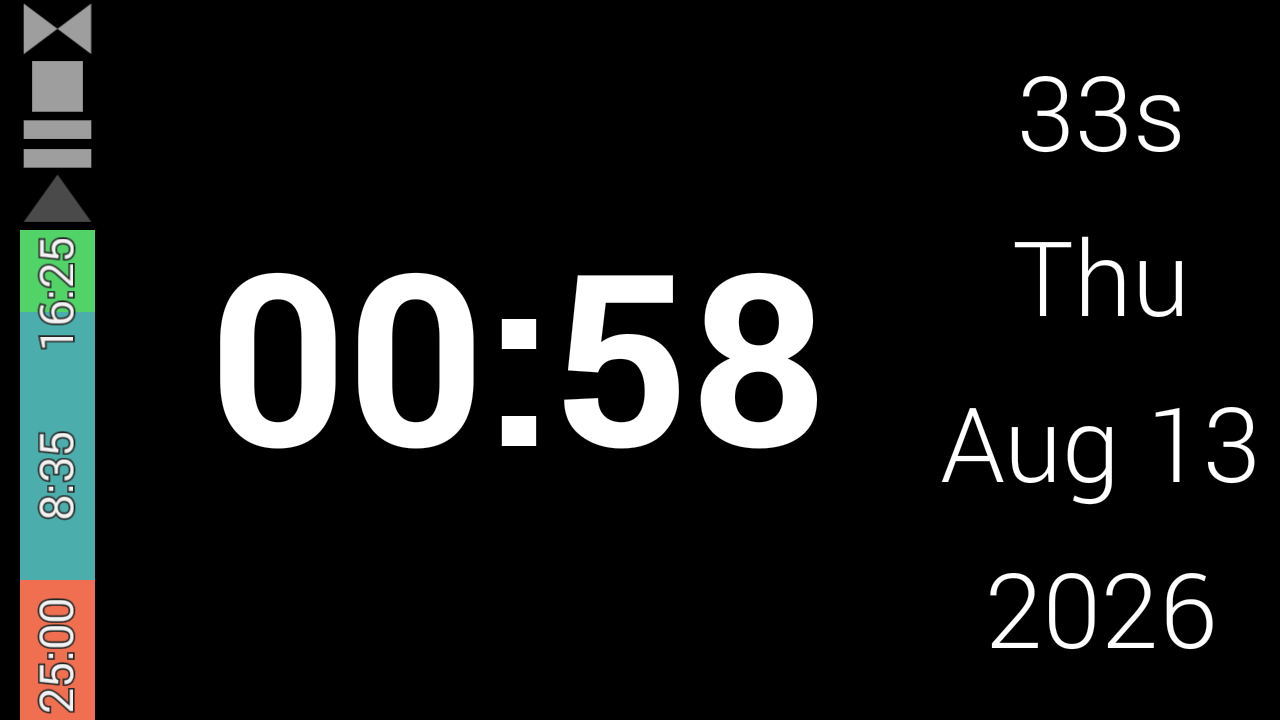
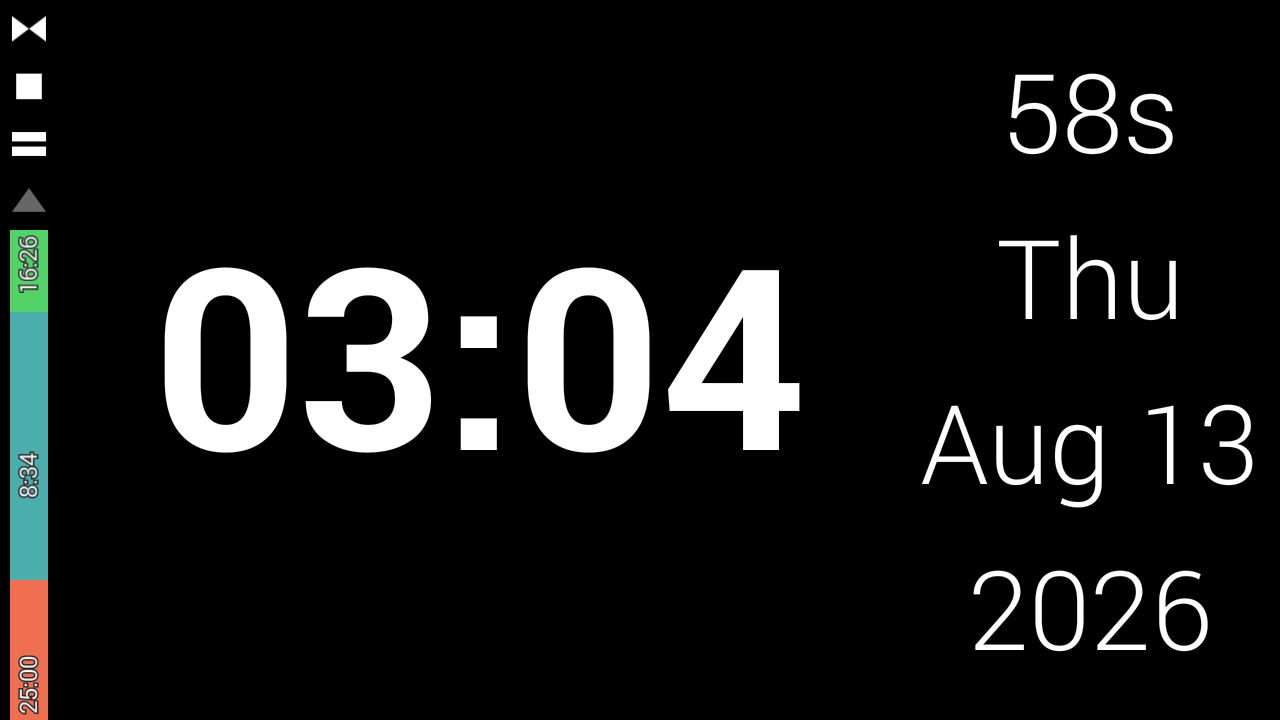
Halve the timer's strip, and let the clock's background run behind it
The strip was a band as wide as a thumb for what is, most of the time, a bar
and three small numbers. It is now eight per cent of the shorter edge rather
than sixteen. Everything on it came down with it without being touched: the
controls and the lettering are both measured from the strip's thickness, so
there is one number to change here and not three that have to agree.

It was also a black band across a picture. The clock and the strip used to sit
side by side, so the clock simply had no pixels where the strip was, and a
background photograph or a GIF stopped dead at its edge. The clock is now laid
out at full size underneath and told how much of itself the strip covers: the
background is drawn across the whole view and only the text keeps clear. The
strip paints no background of its own, so whatever is behind it - a colour, a
photograph, an animation - runs under it and the screen is one image again.
Checked on the emulator with a striped backdrop: not one black pixel left in
the band.

And the controls are drawn in the clock's own text colour rather than a fixed
grey, with the ones there is nothing to do with faded rather than recoloured,
so the strip reads as part of the clock instead of a panel bolted to it.

The README screenshots are retaken at the new proportions.

diff --git a/src/android/java/com/reteclock/ClockActivity.java b/src/android/java/com/reteclock/ClockActivity.java
@@ -131,12 +131,10 @@ public class ClockActivity extends Activity {
 
         if (!wantTimer) {
             timer = null;
+            view.setContentInset(0, 0);
             root.addView(view, new FrameLayout.LayoutParams(
                     FrameLayout.LayoutParams.MATCH_PARENT, FrameLayout.LayoutParams.MATCH_PARENT));
         } else {
-            LinearLayout row = new LinearLayout(this);
-            row.setOrientation(landscape ? LinearLayout.HORIZONTAL : LinearLayout.VERTICAL);
-
             timer = new TimerView(this);
             timer.setListener(timerListener);
             List<TimerPreset> presets = Settings.timerPresets(this);
@@ -152,17 +150,28 @@ public class ClockActivity extends Activity {
             // very pixel it was on. Only switching the timer off entirely gives the space back,
             // and that is the branch above.
             timer.setHidden(Settings.timerHidden(this));
+            // The strip's controls are drawn in the clock's own text colour, so the two belong to
+            // the same clock rather than looking like a panel bolted on.
+            int chosenText = Settings.color(this, Settings.KEY_TEXT_COLOR);
+            int chosenBackground = com.reteclock.core.ClockColors.opaque(
+                    Settings.color(this, Settings.KEY_BACKGROUND_COLOR));
+            timer.setChrome(
+                    com.reteclock.core.ClockColors.resolveText(chosenText, chosenBackground));
 
+            // The clock is laid out at full size *under* the strip, and told how much of itself the
+            // strip covers. Its background — a colour, or a picture, or a GIF playing — therefore
+            // runs the whole width of the screen and the strip sits in it rather than cutting it in
+            // two; only the digits keep clear.
             int strip = stripThickness(landscape);
-            row.addView(timer, landscape
-                    ? new LinearLayout.LayoutParams(strip, LinearLayout.LayoutParams.MATCH_PARENT)
-                    : new LinearLayout.LayoutParams(
-                            LinearLayout.LayoutParams.MATCH_PARENT, strip));
-            row.addView(view, new LinearLayout.LayoutParams(
-                    LinearLayout.LayoutParams.MATCH_PARENT,
-                    LinearLayout.LayoutParams.MATCH_PARENT, 1f));
-            root.addView(row, new FrameLayout.LayoutParams(
+            root.addView(view, new FrameLayout.LayoutParams(
                     FrameLayout.LayoutParams.MATCH_PARENT, FrameLayout.LayoutParams.MATCH_PARENT));
+            view.setContentInset(landscape ? strip : 0, landscape ? 0 : strip);
+
+            FrameLayout.LayoutParams band = landscape
+                    ? new FrameLayout.LayoutParams(strip, FrameLayout.LayoutParams.MATCH_PARENT)
+                    : new FrameLayout.LayoutParams(FrameLayout.LayoutParams.MATCH_PARENT, strip);
+            band.gravity = landscape ? (Gravity.TOP | Gravity.LEFT) : (Gravity.TOP | Gravity.LEFT);
+            root.addView(timer, band);
         }
 
         // The sheet the flash uses, above everything and invisible until it is wanted.
@@ -189,9 +198,13 @@ public class ClockActivity extends Activity {
     private int stripThickness(boolean landscape) {
         android.util.DisplayMetrics metrics = getResources().getDisplayMetrics();
         int shorter = Math.min(metrics.widthPixels, metrics.heightPixels);
-        int wanted = Math.round(shorter * 0.16f);
-        int floor = Math.round(56f * metrics.density);
-        int ceiling = Math.round(120f * metrics.density);
+        // Eight per cent of the shorter edge. It was sixteen, and on a real phone that was a band
+        // as wide as a thumb for what is, most of the time, a bar and three small numbers. Halving
+        // it halves everything on it too: the controls and the lettering are both measured from the
+        // strip's thickness, so there is one number here rather than three that must agree.
+        int wanted = Math.round(shorter * 0.08f);
+        int floor = Math.round(28f * metrics.density);
+        int ceiling = Math.round(60f * metrics.density);
         return Math.max(floor, Math.min(wanted, ceiling));
     }
 

diff --git a/src/android/java/com/reteclock/TimerView.java b/src/android/java/com/reteclock/TimerView.java
@@ -39,6 +39,8 @@ public class TimerView extends View {
     private static final int TRACK = 0xFF262626;
     private static final int TEXT = 0xFFF2F2F2;
     private static final int CONTROL = 0xFF9E9E9E;
+    /** How much of its colour a control keeps when it has nothing to do. */
+    private static final int DIM_ALPHA = 0x66;
 
     private final Paint paint = new Paint(Paint.ANTI_ALIAS_FLAG);
     private final Paint.FontMetrics metrics = new Paint.FontMetrics();
@@ -53,6 +55,8 @@ public class TimerView extends View {
     private boolean running;
     /** Showing the hourglass alone, with the clock having the rest of the screen back. */
     private boolean hidden;
+    /** The clock's text colour, which the controls are drawn in. */
+    private int chromeControl = CONTROL;
     /** Settled by {@link #settleReadouts()}; never recomputed while drawing. */
     private float readoutSize;
     private float readoutMiddle;
@@ -94,6 +98,18 @@ public class TimerView extends View {
      * A timer that is not being watched still runs: the beeps and the speech carry on, and the
      * hourglass is where they are called back from. Hiding is about the screen, not the clock.
      */
+    /**
+     * The colour the clock draws its text in, which the strip's controls take too.
+     *
+     * The strip paints no background of its own: the clock is laid out behind it at full size, so
+     * whatever is back there — a colour or a picture — runs under the strip and the screen stays
+     * one image instead of two.
+     */
+    void setChrome(int control) {
+        chromeControl = control;
+        invalidate();
+    }
+
     void setHidden(boolean hide) {
         hidden = hide;
         invalidate();
@@ -491,7 +507,7 @@ public class TimerView extends View {
             return;
         }
         paint.setStyle(Paint.Style.FILL);
-        paint.setColor(CONTROL);
+        paint.setColor(chromeControl);
         float size = Math.min(bar.thickness() * 1.1f, shortEdge() * 0.7f);
         float along = bar.controlCenter(TimerBar.CONTROL_HOURGLASS);
         float middle = (bar.barNear() + bar.barFar()) / 2f;
@@ -505,6 +521,11 @@ public class TimerView extends View {
         canvas.restore();
     }
 
+    /** The same colour, faded, for a control there is nothing to do with just now. */
+    private static int dimmed(int color) {
+        return (color & 0x00FFFFFF) | (DIM_ALPHA << 24);
+    }
+
     private void drawControls(Canvas canvas) {
         float size = Math.min(bar.thickness() * 1.1f, shortEdge() * 0.7f);
         for (int i = 0; i < bar.controlCount(); i++) {
@@ -515,7 +536,7 @@ public class TimerView extends View {
             boolean lit = i == TimerBar.CONTROL_PLAY ? !isRunning()
                     : i == TimerBar.CONTROL_PAUSE ? isRunning()
                     : true;
-            paint.setColor(lit ? CONTROL : 0xFF4A4A4A);
+            paint.setColor(lit ? chromeControl : dimmed(chromeControl));
             // In landscape the strip is turned, so the glyphs are turned with it: play points the
             // way the bar fills — upwards — rather than off to the side.
             canvas.save();

diff --git a/src/android/java/com/reteclock/ClockView.java b/src/android/java/com/reteclock/ClockView.java
@@ -139,6 +139,18 @@ public class ClockView extends View {
     private long lastForegroundMs;
     /** The bitmap the shader was made over, so a new picture gets a new shader. */
     private Bitmap foregroundShaderSource;
+    /**
+     * How much of the view the timer's strip covers, on the left in landscape and at the top in
+     * portrait.
+     *
+     * The clock draws its background across the whole view — so a picture runs behind the strip and
+     * the screen is one image rather than two — and lays its text out inside what is left. Keeping
+     * these apart is the whole trick: the picture does not care about the strip, and the digits
+     * must not sit under it.
+     */
+    private int insetLeft;
+    private int insetTop;
+
     /** The frame of the background animation drawn last, so freezing it keeps that frame. */
     private long lastFrameMs;
     /** The screen this device's prepared files were baked for; one pack serves both orientations. */
@@ -355,9 +367,22 @@ public class ClockView extends View {
      * field's own font — and it is why the draw path does none of that. Called when the screen size
      * changes and when the settings do, which is the only time any of it can change.
      */
+    /** Tells the clock how much of itself the timer's strip is covering. */
+    void setContentInset(int left, int top) {
+        if (left == insetLeft && top == insetTop) {
+            return;
+        }
+        insetLeft = left;
+        insetTop = top;
+        layout = null;
+        plan = null;
+        invalidate();
+    }
+
     private void rebuild(int w, int h) {
+        // The background is the size of the view; the text is laid out in what the strip leaves.
         refreshSlideForSize(w, h);
-        layout = ClockLayout.of(w, h, options);
+        layout = ClockLayout.of(Math.max(1, w - insetLeft), Math.max(1, h - insetTop), options);
         plan = layout.plan(new ClockLayout.Metrics() {
             @Override
             public float width(String role, String text, float textSize) {
@@ -429,12 +454,14 @@ public class ClockView extends View {
             }
         }
         if (foreground != null) {
-            updateForegroundShader(w, h, textShow == null ? 0L : textShow.frameMs(elapsed));
+            updateForegroundShader(Math.max(1, w - insetLeft), Math.max(1, h - insetTop),
+                    textShow == null ? 0L : textShow.frameMs(elapsed));
         }
         paint.setShader(foreground != null ? foregroundShader : null);
 
         canvas.save();
-        canvas.translate(BurnInShift.offsetX(elapsed, maxShift), BurnInShift.offsetY(elapsed, maxShift));
+        canvas.translate(insetLeft + BurnInShift.offsetX(elapsed, maxShift),
+                insetTop + BurnInShift.offsetY(elapsed, maxShift));
 
         for (ClockLayout.Slot slot : layout.slots()) {
             String[] pieces = piecesFor(slot, time);

diff --git a/README.ko.md b/README.ko.md
@@ -19,7 +19,7 @@
 
 **[⬇ F-Droid에서 받기](https://f-droid.org/packages/com.reteclock/)** — 권장합니다.
 
-**[⬇ reteclock-0.15.0.apk 내려받기](https://github.com/rubidus-api/reteclock_apk/releases/download/v0.15.0/reteclock-0.15.0.apk)**
+**[⬇ reteclock-0.16.0.apk 내려받기](https://github.com/rubidus-api/reteclock_apk/releases/download/v0.16.0/reteclock-0.16.0.apk)**
 — 137 KB이고 안드로이드 2.3 이상에 설치됩니다. 파일로 곧장 이어지는 링크라, 깃허브의 릴리즈
 페이지를 제대로 그리지 못하는 오래된 브라우저에서도 내려받으실 수 있습니다.
 
@@ -124,7 +124,7 @@ F-Droid 앱은 업데이트할 때마다 서명도 검사합니다.
 
 ## 어떤 폰에서 돌아가나
 
-F-Droid에 게시되어 있고, 최신 릴리즈는 0.15.0입니다.
+F-Droid에 게시되어 있고, 최신 릴리즈는 0.16.0입니다.
 
 | | |
 |---|---|

diff --git a/README.md b/README.md
@@ -18,7 +18,7 @@ keep the screen awake, and one to vibrate, which only the timer uses.
 
 **[⬇ Get it on F-Droid](https://f-droid.org/packages/com.reteclock/)** — recommended.
 
-**[⬇ Download reteclock-0.15.0.apk](https://github.com/rubidus-api/reteclock_apk/releases/download/v0.15.0/reteclock-0.15.0.apk)**
+**[⬇ Download reteclock-0.16.0.apk](https://github.com/rubidus-api/reteclock_apk/releases/download/v0.16.0/reteclock-0.16.0.apk)**
 — 137 KB, installs on Android 2.3 and newer. This is the file itself, so an old browser that cannot
 render GitHub's release page can still fetch it.
 
@@ -123,7 +123,7 @@ beyond keeping the screen awake. Copy the APK to the phone, open it, and the pho
 
 ## Which phones it runs on
 
-Published on F-Droid; the latest release is 0.15.0.
+Published on F-Droid; the latest release is 0.16.0.
 
 | | |
 |---|---|
